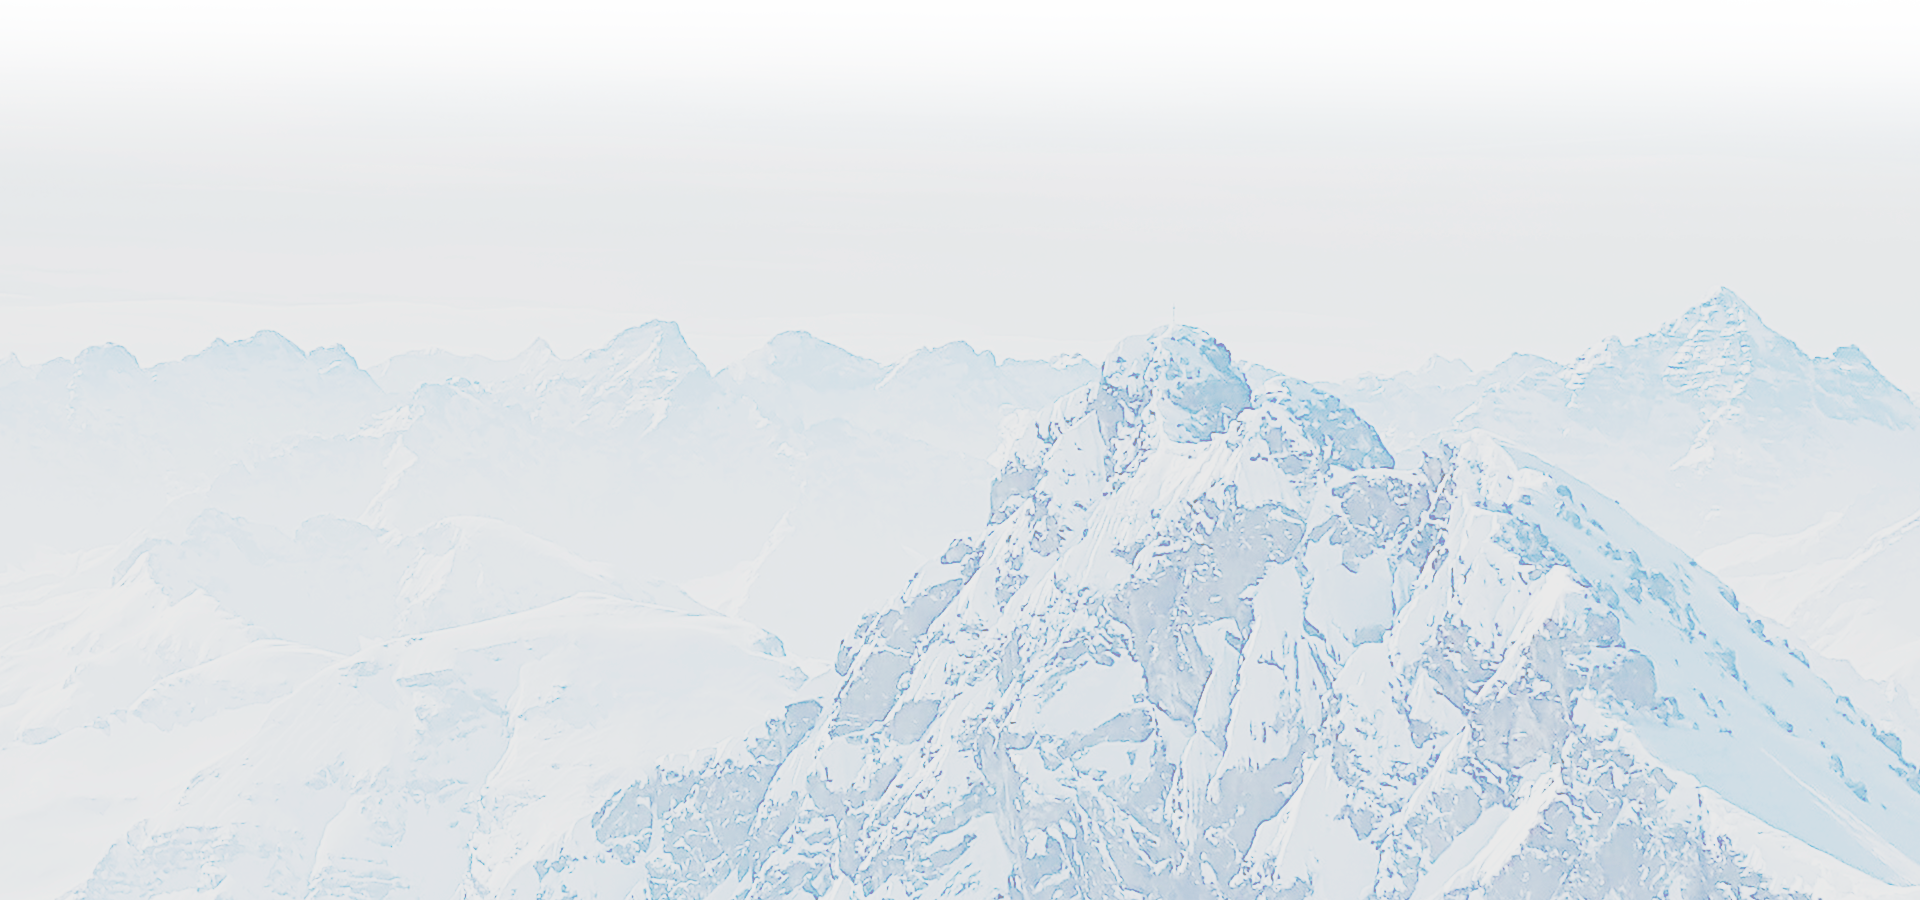
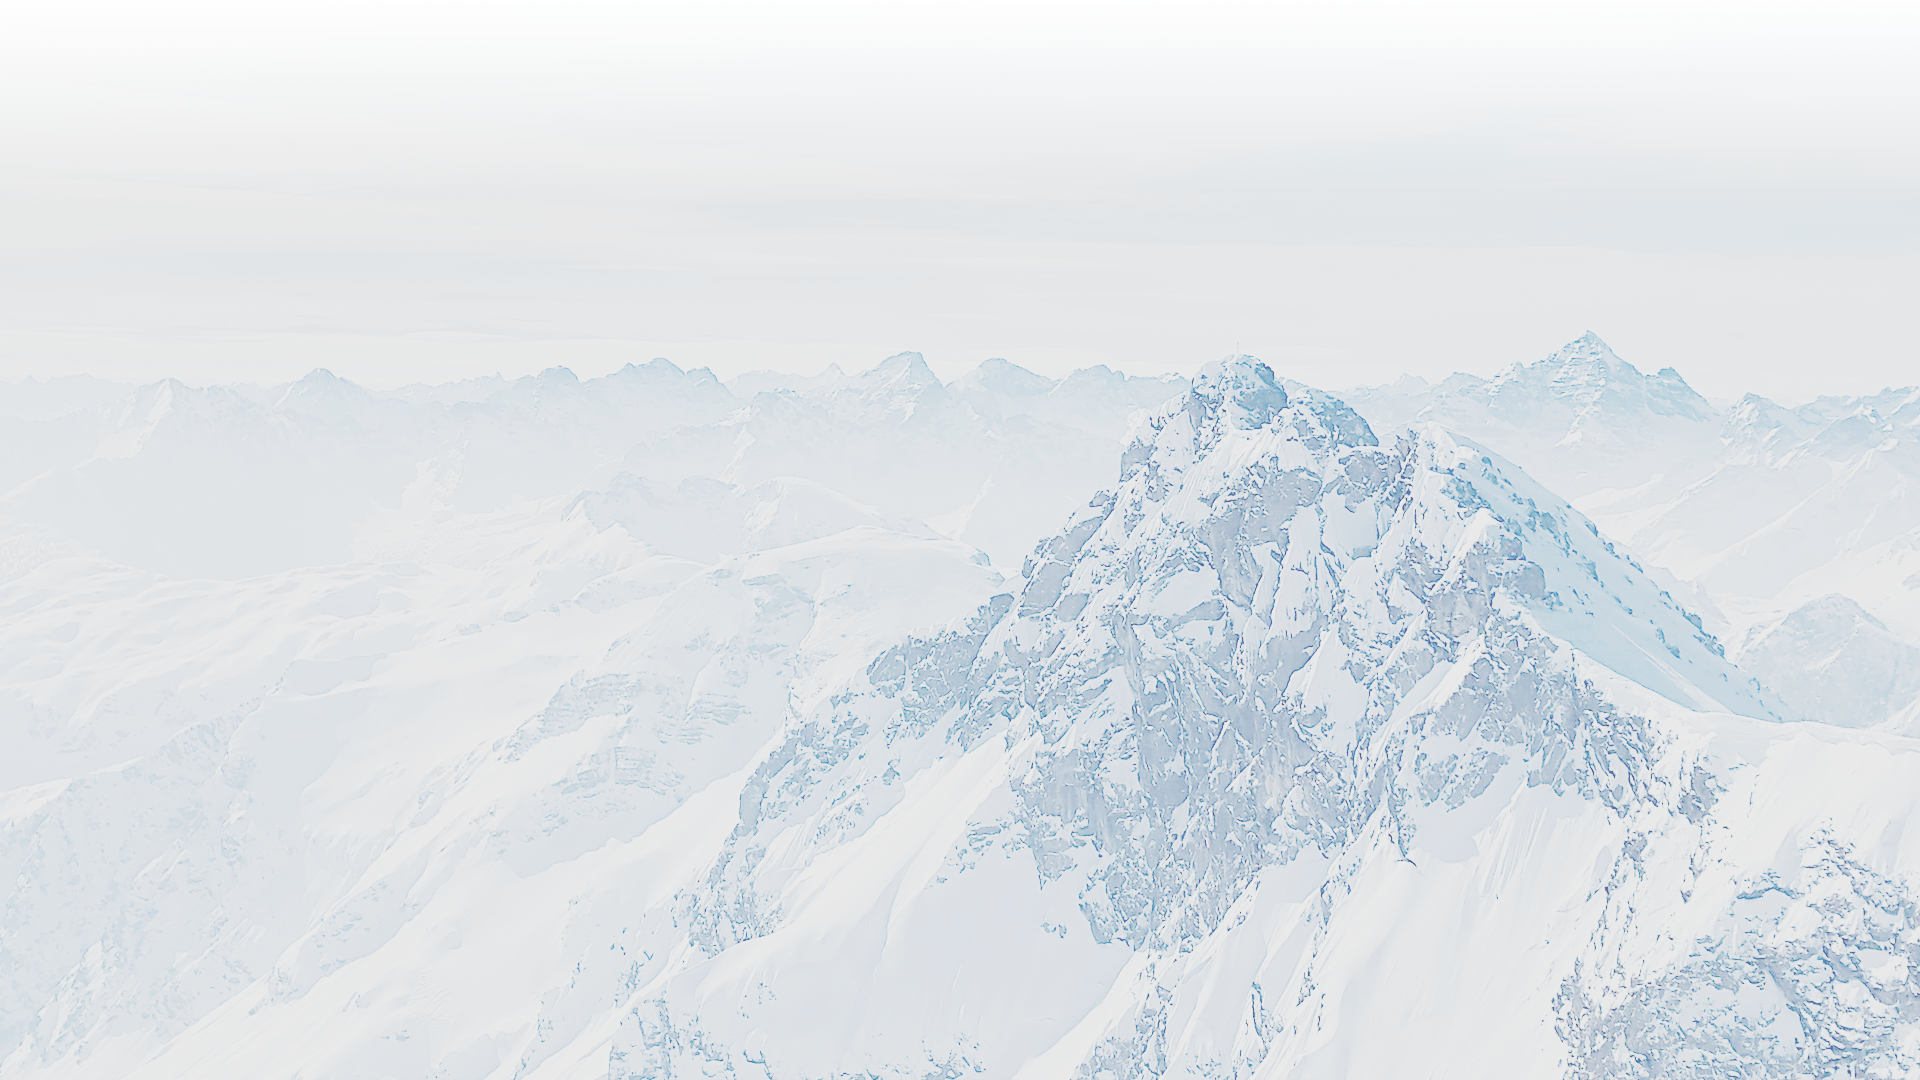
bg table fixed

diff --git a/css/style.css b/css/style.css
@@ -38,9 +38,10 @@ header{
 }
 
 .on_scroll{
-  background: #fff;
-  opacity:0.65;
+  background: #e7e7e7;
+  opacity:0.5;
   height:70px;
+  z-index: 1;
 }
 
 .off{visibility: hidden; opacity: 0;}
@@ -87,6 +88,7 @@ header .menu{
   width:60%;
   position: absolute;
   right:0;top:5px;
+  z-index: 20;
 }
 header .menu > li{
   width:130px;
@@ -272,7 +274,7 @@ overflow: hidden;
 .bg_wrapper.last .bg_img span{
   display: block;
   position: absolute; top:0; left: 50%; margin-left: -960px;
-  width:1920px; height:900px;
+  width:1920px; height:1080px;
   background: url("../img/bg_last.png")no-repeat 0 0;
 }
 
@@ -410,7 +412,7 @@ table.chart{width: 100%; height:100%; border-collapse: collapse; overflow:hidden
 tr.wht{background:#fff; opacity: 0.5;}
 td, th{
   position: relative;
-  border: 3px solid #e9e9e9;
+  border: 3px solid rgba(233,233,233,0);
   margin:0;
   text-align: center;
   font-family: 'Roboto', sans-serif; color:#464646;

diff --git a/js/script.js b/js/script.js
@@ -52,8 +52,8 @@ $(function(){
       // link.addClass("on_bar");
       link.css({
         "font-size":".85rem",
-        "color":"#2b2b2b"
-      })
+        "color":"#000"
+      });
     }else{
       $("#head").removeClass("on_scroll");
       $(".header_inner .bar, .header_inner .logo").removeClass("off");
